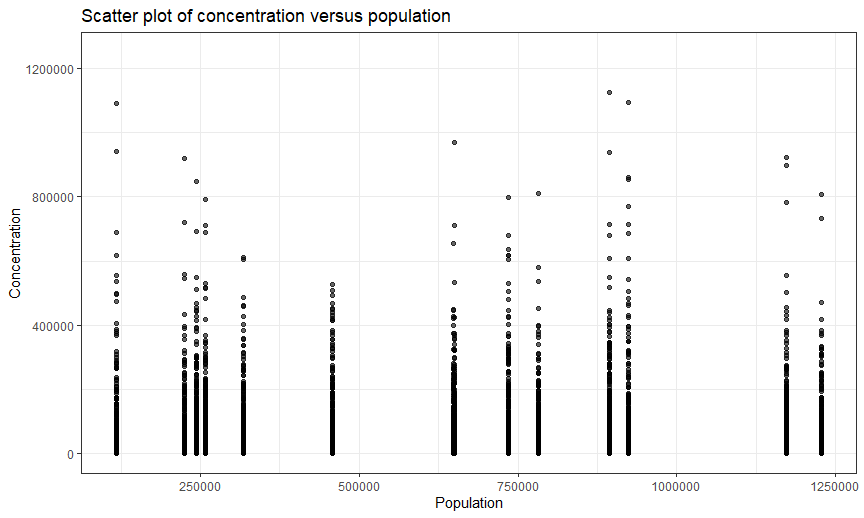
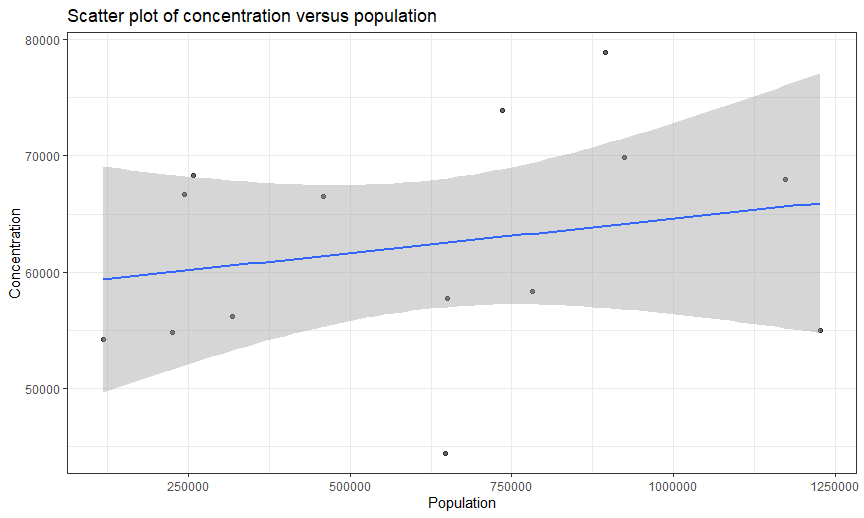
Correlation and Linear regression

diff --git a/Data2026-02-22.md b/Data2026-02-22.md
@@ -31,8 +31,9 @@ wastewater_clean = wastewater %>%
 # Create a descriptive_table
 descriptive_table = wastewater_clean %>%
   select(-date) %>%
-   gtsummary::tbl_summary(statistic = list(all_continuous() ~ "{mean} ({sd}) {min} {max} {median}",
-                                          all_categorical() ~ "{p}%"))
+   gtsummary::tbl_summary(type = all_continuous() ~ "continuous2",
+                          statistic = list(all_continuous2() ~ c("{mean} ({sd})", "{min} - {max}"),
+                                          all_categorical() ~ "{n}, {p}%"))
 descriptive_table
 ```
 
@@ -443,50 +444,62 @@ descriptive_table
     <tr><td headers="label" class="gt_row gt_left">wrrf</td>
 <td headers="stat_0" class="gt_row gt_center"><br /></td></tr>
     <tr><td headers="label" class="gt_row gt_left">    26th Ward</td>
-<td headers="stat_0" class="gt_row gt_center">7.2%</td></tr>
+<td headers="stat_0" class="gt_row gt_center">516, 7.2%</td></tr>
     <tr><td headers="label" class="gt_row gt_left">    Bowery Bay</td>
-<td headers="stat_0" class="gt_row gt_center">7.2%</td></tr>
+<td headers="stat_0" class="gt_row gt_center">513, 7.2%</td></tr>
     <tr><td headers="label" class="gt_row gt_left">    Coney Island</td>
-<td headers="stat_0" class="gt_row gt_center">7.1%</td></tr>
+<td headers="stat_0" class="gt_row gt_center">506, 7.1%</td></tr>
     <tr><td headers="label" class="gt_row gt_left">    Hunts Point</td>
-<td headers="stat_0" class="gt_row gt_center">7.2%</td></tr>
+<td headers="stat_0" class="gt_row gt_center">515, 7.2%</td></tr>
     <tr><td headers="label" class="gt_row gt_left">    Jamaica Bay</td>
-<td headers="stat_0" class="gt_row gt_center">7.3%</td></tr>
+<td headers="stat_0" class="gt_row gt_center">520, 7.3%</td></tr>
     <tr><td headers="label" class="gt_row gt_left">    Newtown Creek</td>
-<td headers="stat_0" class="gt_row gt_center">6.8%</td></tr>
+<td headers="stat_0" class="gt_row gt_center">486, 6.8%</td></tr>
     <tr><td headers="label" class="gt_row gt_left">    North River</td>
-<td headers="stat_0" class="gt_row gt_center">7.1%</td></tr>
+<td headers="stat_0" class="gt_row gt_center">511, 7.1%</td></tr>
     <tr><td headers="label" class="gt_row gt_left">    Oakwood Beach</td>
-<td headers="stat_0" class="gt_row gt_center">7.2%</td></tr>
+<td headers="stat_0" class="gt_row gt_center">517, 7.2%</td></tr>
     <tr><td headers="label" class="gt_row gt_left">    Owls Head</td>
-<td headers="stat_0" class="gt_row gt_center">7.2%</td></tr>
+<td headers="stat_0" class="gt_row gt_center">515, 7.2%</td></tr>
     <tr><td headers="label" class="gt_row gt_left">    Port Richmond</td>
-<td headers="stat_0" class="gt_row gt_center">7.1%</td></tr>
+<td headers="stat_0" class="gt_row gt_center">511, 7.1%</td></tr>
     <tr><td headers="label" class="gt_row gt_left">    Red Hook</td>
-<td headers="stat_0" class="gt_row gt_center">7.2%</td></tr>
+<td headers="stat_0" class="gt_row gt_center">515, 7.2%</td></tr>
     <tr><td headers="label" class="gt_row gt_left">    Rockaway</td>
-<td headers="stat_0" class="gt_row gt_center">7.1%</td></tr>
+<td headers="stat_0" class="gt_row gt_center">511, 7.1%</td></tr>
     <tr><td headers="label" class="gt_row gt_left">    Tallman Island</td>
-<td headers="stat_0" class="gt_row gt_center">7.1%</td></tr>
+<td headers="stat_0" class="gt_row gt_center">512, 7.1%</td></tr>
     <tr><td headers="label" class="gt_row gt_left">    Wards Island</td>
-<td headers="stat_0" class="gt_row gt_center">7.2%</td></tr>
+<td headers="stat_0" class="gt_row gt_center">516, 7.2%</td></tr>
     <tr><td headers="label" class="gt_row gt_left">concentration</td>
-<td headers="stat_0" class="gt_row gt_center">62,406 (106,284) 30 2,069,714 23,441</td></tr>
+<td headers="stat_0" class="gt_row gt_center"><br /></td></tr>
+    <tr><td headers="label" class="gt_row gt_left">    Mean (SD)</td>
+<td headers="stat_0" class="gt_row gt_center">62,406 (106,284)</td></tr>
+    <tr><td headers="label" class="gt_row gt_left">    Min - Max</td>
+<td headers="stat_0" class="gt_row gt_center">30 - 2,069,714</td></tr>
     <tr><td headers="label" class="gt_row gt_left">population</td>
-<td headers="stat_0" class="gt_row gt_center">616,070 (345,425) 117,991 1,227,810 647,635</td></tr>
+<td headers="stat_0" class="gt_row gt_center"><br /></td></tr>
+    <tr><td headers="label" class="gt_row gt_left">    Mean (SD)</td>
+<td headers="stat_0" class="gt_row gt_center">616,070 (345,425)</td></tr>
+    <tr><td headers="label" class="gt_row gt_left">    Min - Max</td>
+<td headers="stat_0" class="gt_row gt_center">117,991 - 1,227,810</td></tr>
     <tr><td headers="label" class="gt_row gt_left">log_population</td>
-<td headers="stat_0" class="gt_row gt_center">13.13 (0.69) 11.68 14.02 13.38</td></tr>
+<td headers="stat_0" class="gt_row gt_center"><br /></td></tr>
+    <tr><td headers="label" class="gt_row gt_left">    Mean (SD)</td>
+<td headers="stat_0" class="gt_row gt_center">13.13 (0.69)</td></tr>
+    <tr><td headers="label" class="gt_row gt_left">    Min - Max</td>
+<td headers="stat_0" class="gt_row gt_center">11.68 - 14.02</td></tr>
   </tbody>
   <tfoot>
     <tr class="gt_footnotes">
-      <td class="gt_footnote" colspan="2"><span class="gt_footnote_marks" style="white-space:nowrap;font-style:italic;font-weight:normal;line-height:0;"><sup>1</sup></span> <span class='gt_from_md'>%; Mean (SD) Min Max Median</span></td>
+      <td class="gt_footnote" colspan="2"><span class="gt_footnote_marks" style="white-space:nowrap;font-style:italic;font-weight:normal;line-height:0;"><sup>1</sup></span> <span class='gt_from_md'>n, %</span></td>
     </tr>
   </tfoot>
 </table>
 </div>
 
 ``` r
-# Scatter plots of concentration versus time
+# Scatter plot of concentration versus time
 con_time_plot = wastewater_clean %>%
   ggplot(aes(x = date, y = concentration)) +
   geom_point(alpha = 0.6) +
@@ -513,18 +526,96 @@ con_time_plot
 <img src="Data2026-02-22_files/figure-gfm/unnamed-chunk-4-1.png" width="100%" />
 
 ``` r
+# Scatter plot of concentration versus population
 con_pop_plot = wastewater_clean %>%
-  ggplot(aes(x = population, y = concentration)) +
+  group_by(population) %>%
+  summarize(mean_concentration = mean(concentration)) %>%
+  ggplot(aes(x = population, y = mean_concentration)) +
   geom_point(alpha = 0.6) +
+  geom_smooth(method = "lm", se = TRUE) +
   theme_bw() +
-  scale_y_continuous(limits = c(0, 1250000)) +
   labs(title = "Scatter plot of concentration versus population",
        x = "Population",
        y = "Concentration")
 con_pop_plot
 ```
 
-    ## Warning: Removed 4 rows containing missing values or values outside the scale range
-    ## (`geom_point()`).
+    ## `geom_smooth()` using formula = 'y ~ x'
 
 <img src="Data2026-02-22_files/figure-gfm/unnamed-chunk-5-1.png" width="100%" />
+
+``` r
+# Correlation test
+cor_test = cor.test(wastewater_clean$population,
+                    wastewater_clean$concentration,
+                    method = "pearson")
+cor_test
+```
+
+    ## 
+    ##  Pearson's product-moment correlation
+    ## 
+    ## data:  wastewater_clean$population and wastewater_clean$concentration
+    ## t = 1.6863, df = 7162, p-value = 0.09178
+    ## alternative hypothesis: true correlation is not equal to 0
+    ## 95 percent confidence interval:
+    ##  -0.003236466  0.043059302
+    ## sample estimates:
+    ##       cor 
+    ## 0.0199221
+
+``` r
+cor_test$estimate
+```
+
+    ##       cor 
+    ## 0.0199221
+
+``` r
+cor_test$p.value
+```
+
+    ## [1] 0.09177892
+
+``` r
+cor_test$conf.int
+```
+
+    ## [1] -0.003236466  0.043059302
+    ## attr(,"conf.level")
+    ## [1] 0.95
+
+``` r
+model1 = lm(concentration ~ population, data = wastewater_clean)
+summary(model1)
+```
+
+    ## 
+    ## Call:
+    ## lm(formula = concentration ~ population, data = wastewater_clean)
+    ## 
+    ## Residuals:
+    ##     Min      1Q  Median      3Q     Max 
+    ##  -65975  -54840  -39129   10090 2009708 
+    ## 
+    ## Coefficients:
+    ##              Estimate Std. Error t value Pr(>|t|)    
+    ## (Intercept) 5.863e+04  2.567e+03  22.836   <2e-16 ***
+    ## population  6.130e-03  3.635e-03   1.686   0.0918 .  
+    ## ---
+    ## Signif. codes:  0 '***' 0.001 '**' 0.01 '*' 0.05 '.' 0.1 ' ' 1
+    ## 
+    ## Residual standard error: 106300 on 7162 degrees of freedom
+    ## Multiple R-squared:  0.0003969,  Adjusted R-squared:  0.0002573 
+    ## F-statistic: 2.844 on 1 and 7162 DF,  p-value: 0.09178
+
+``` r
+model_results <- tidy(model1, conf.int = TRUE)
+
+knitr::kable(model_results, digits = 3)
+```
+
+| term        |  estimate | std.error | statistic | p.value |  conf.low | conf.high |
+|:------------|----------:|----------:|----------:|--------:|----------:|----------:|
+| (Intercept) | 58629.620 |  2567.388 |    22.836 |   0.000 | 53596.781 | 63662.460 |
+| population  |     0.006 |     0.004 |     1.686 |   0.092 |    -0.001 |     0.013 |
